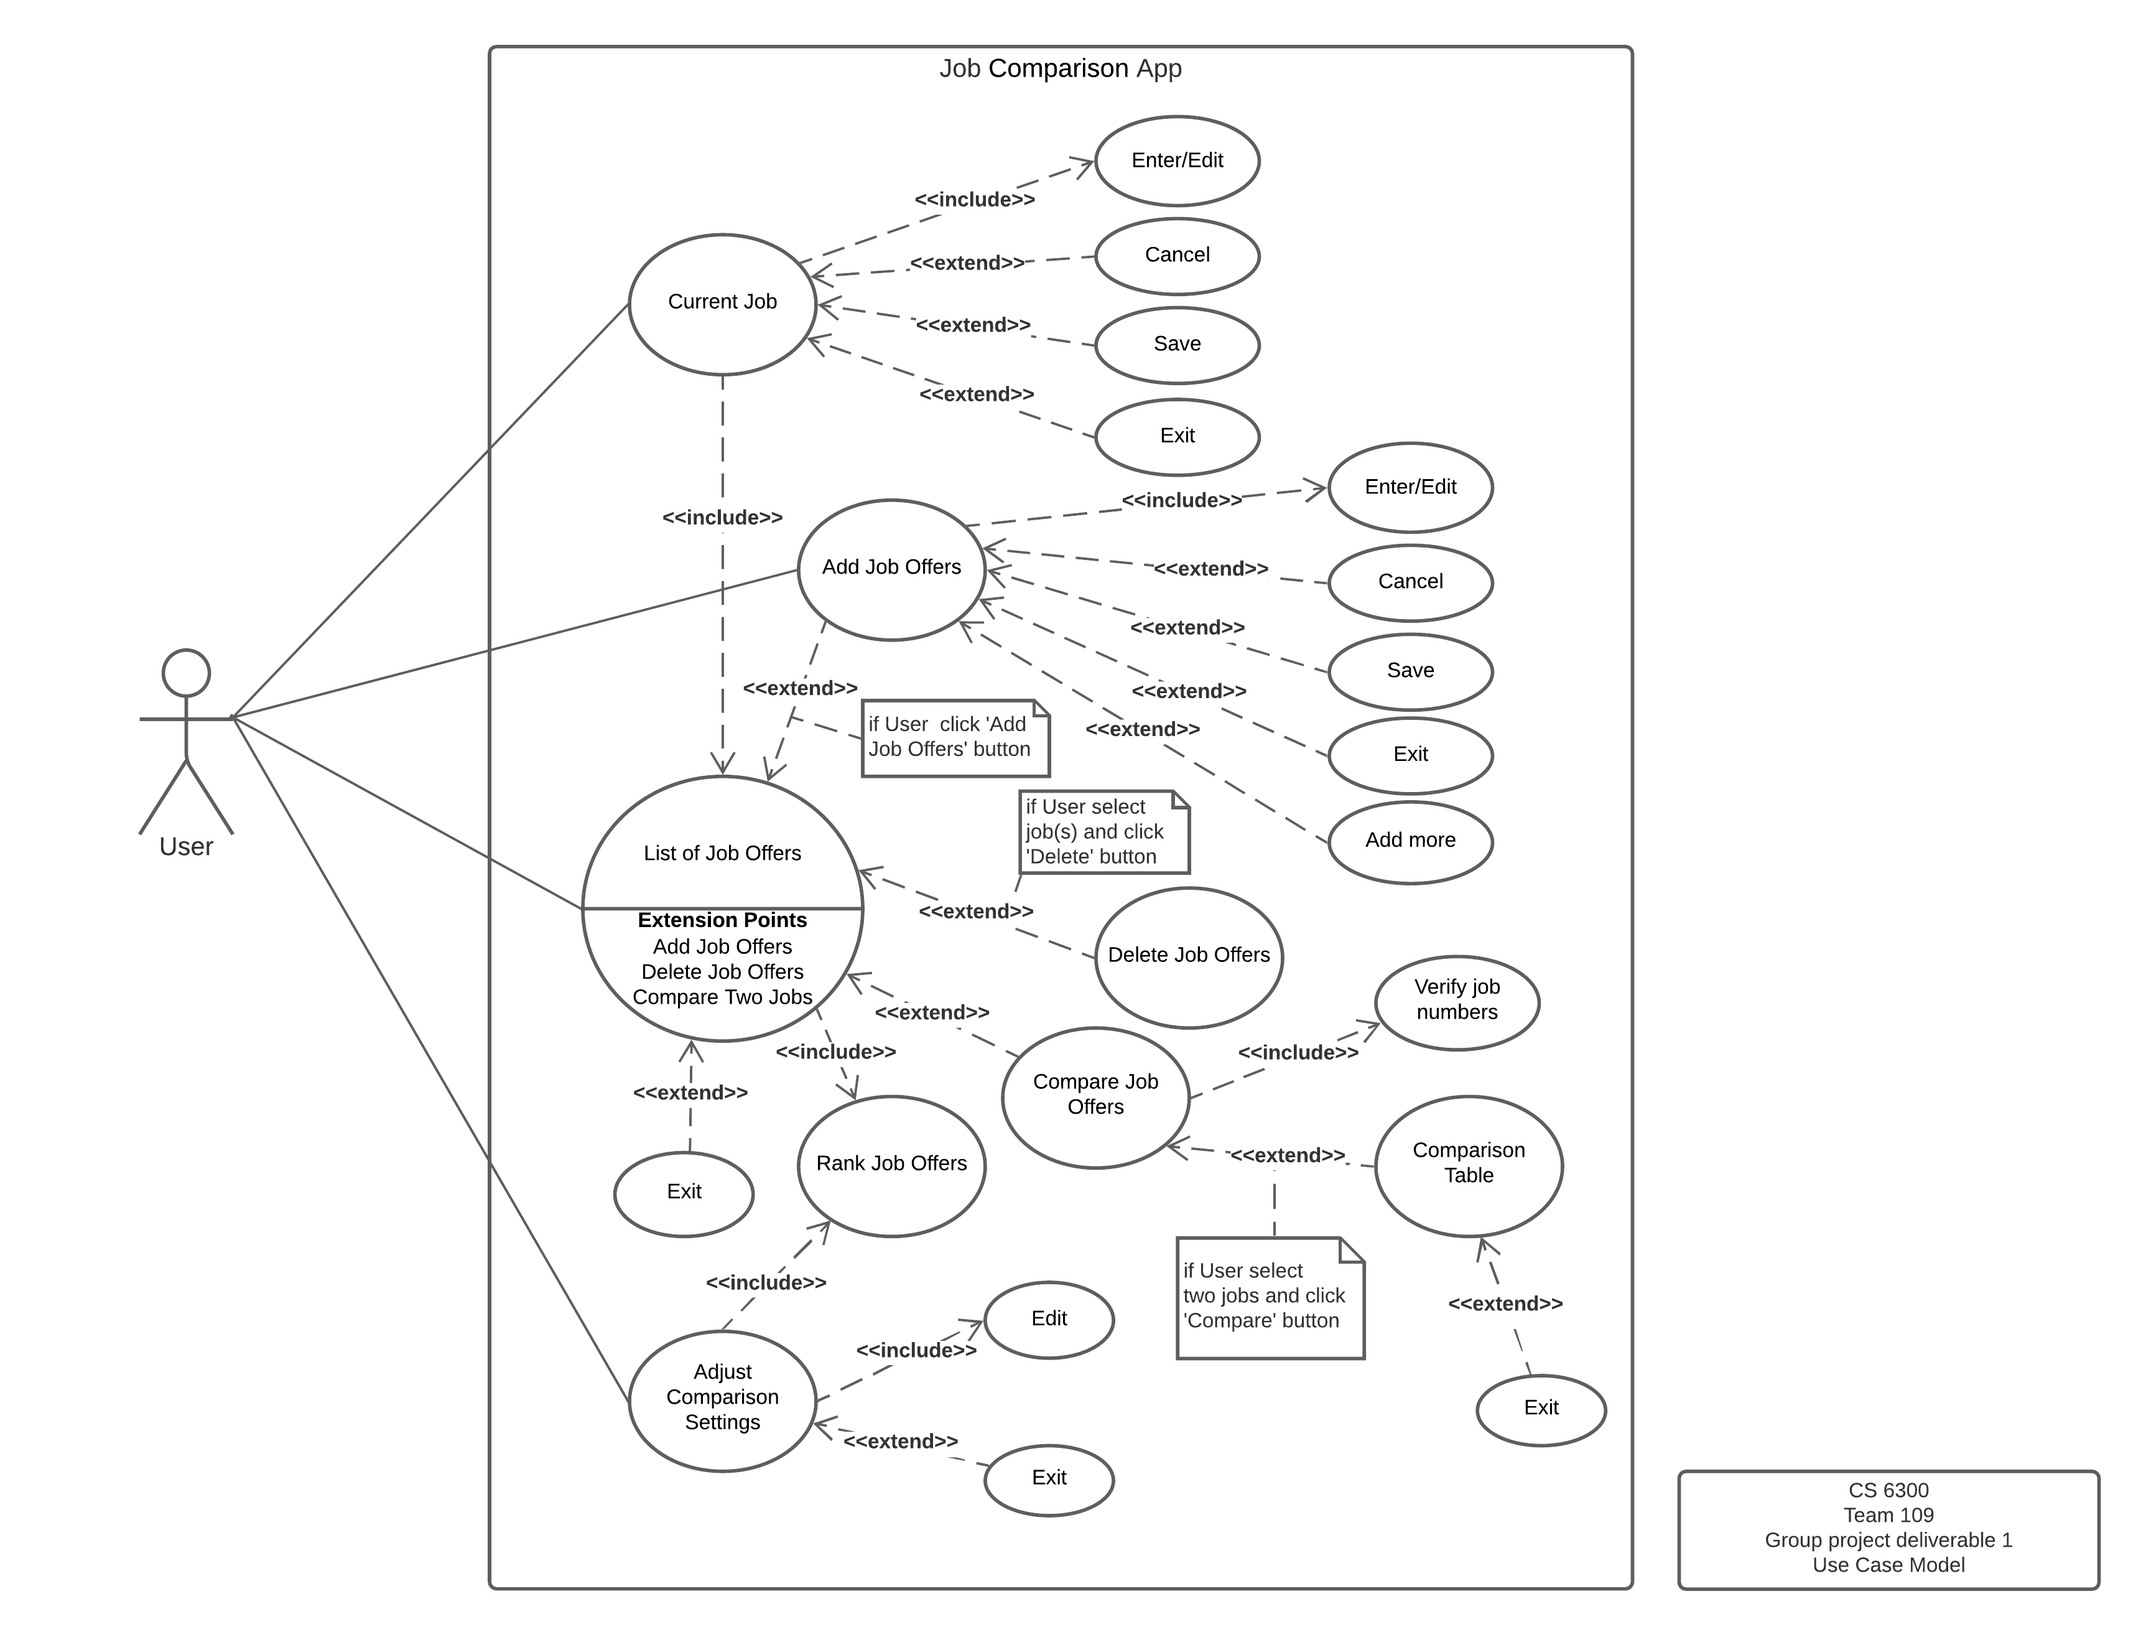
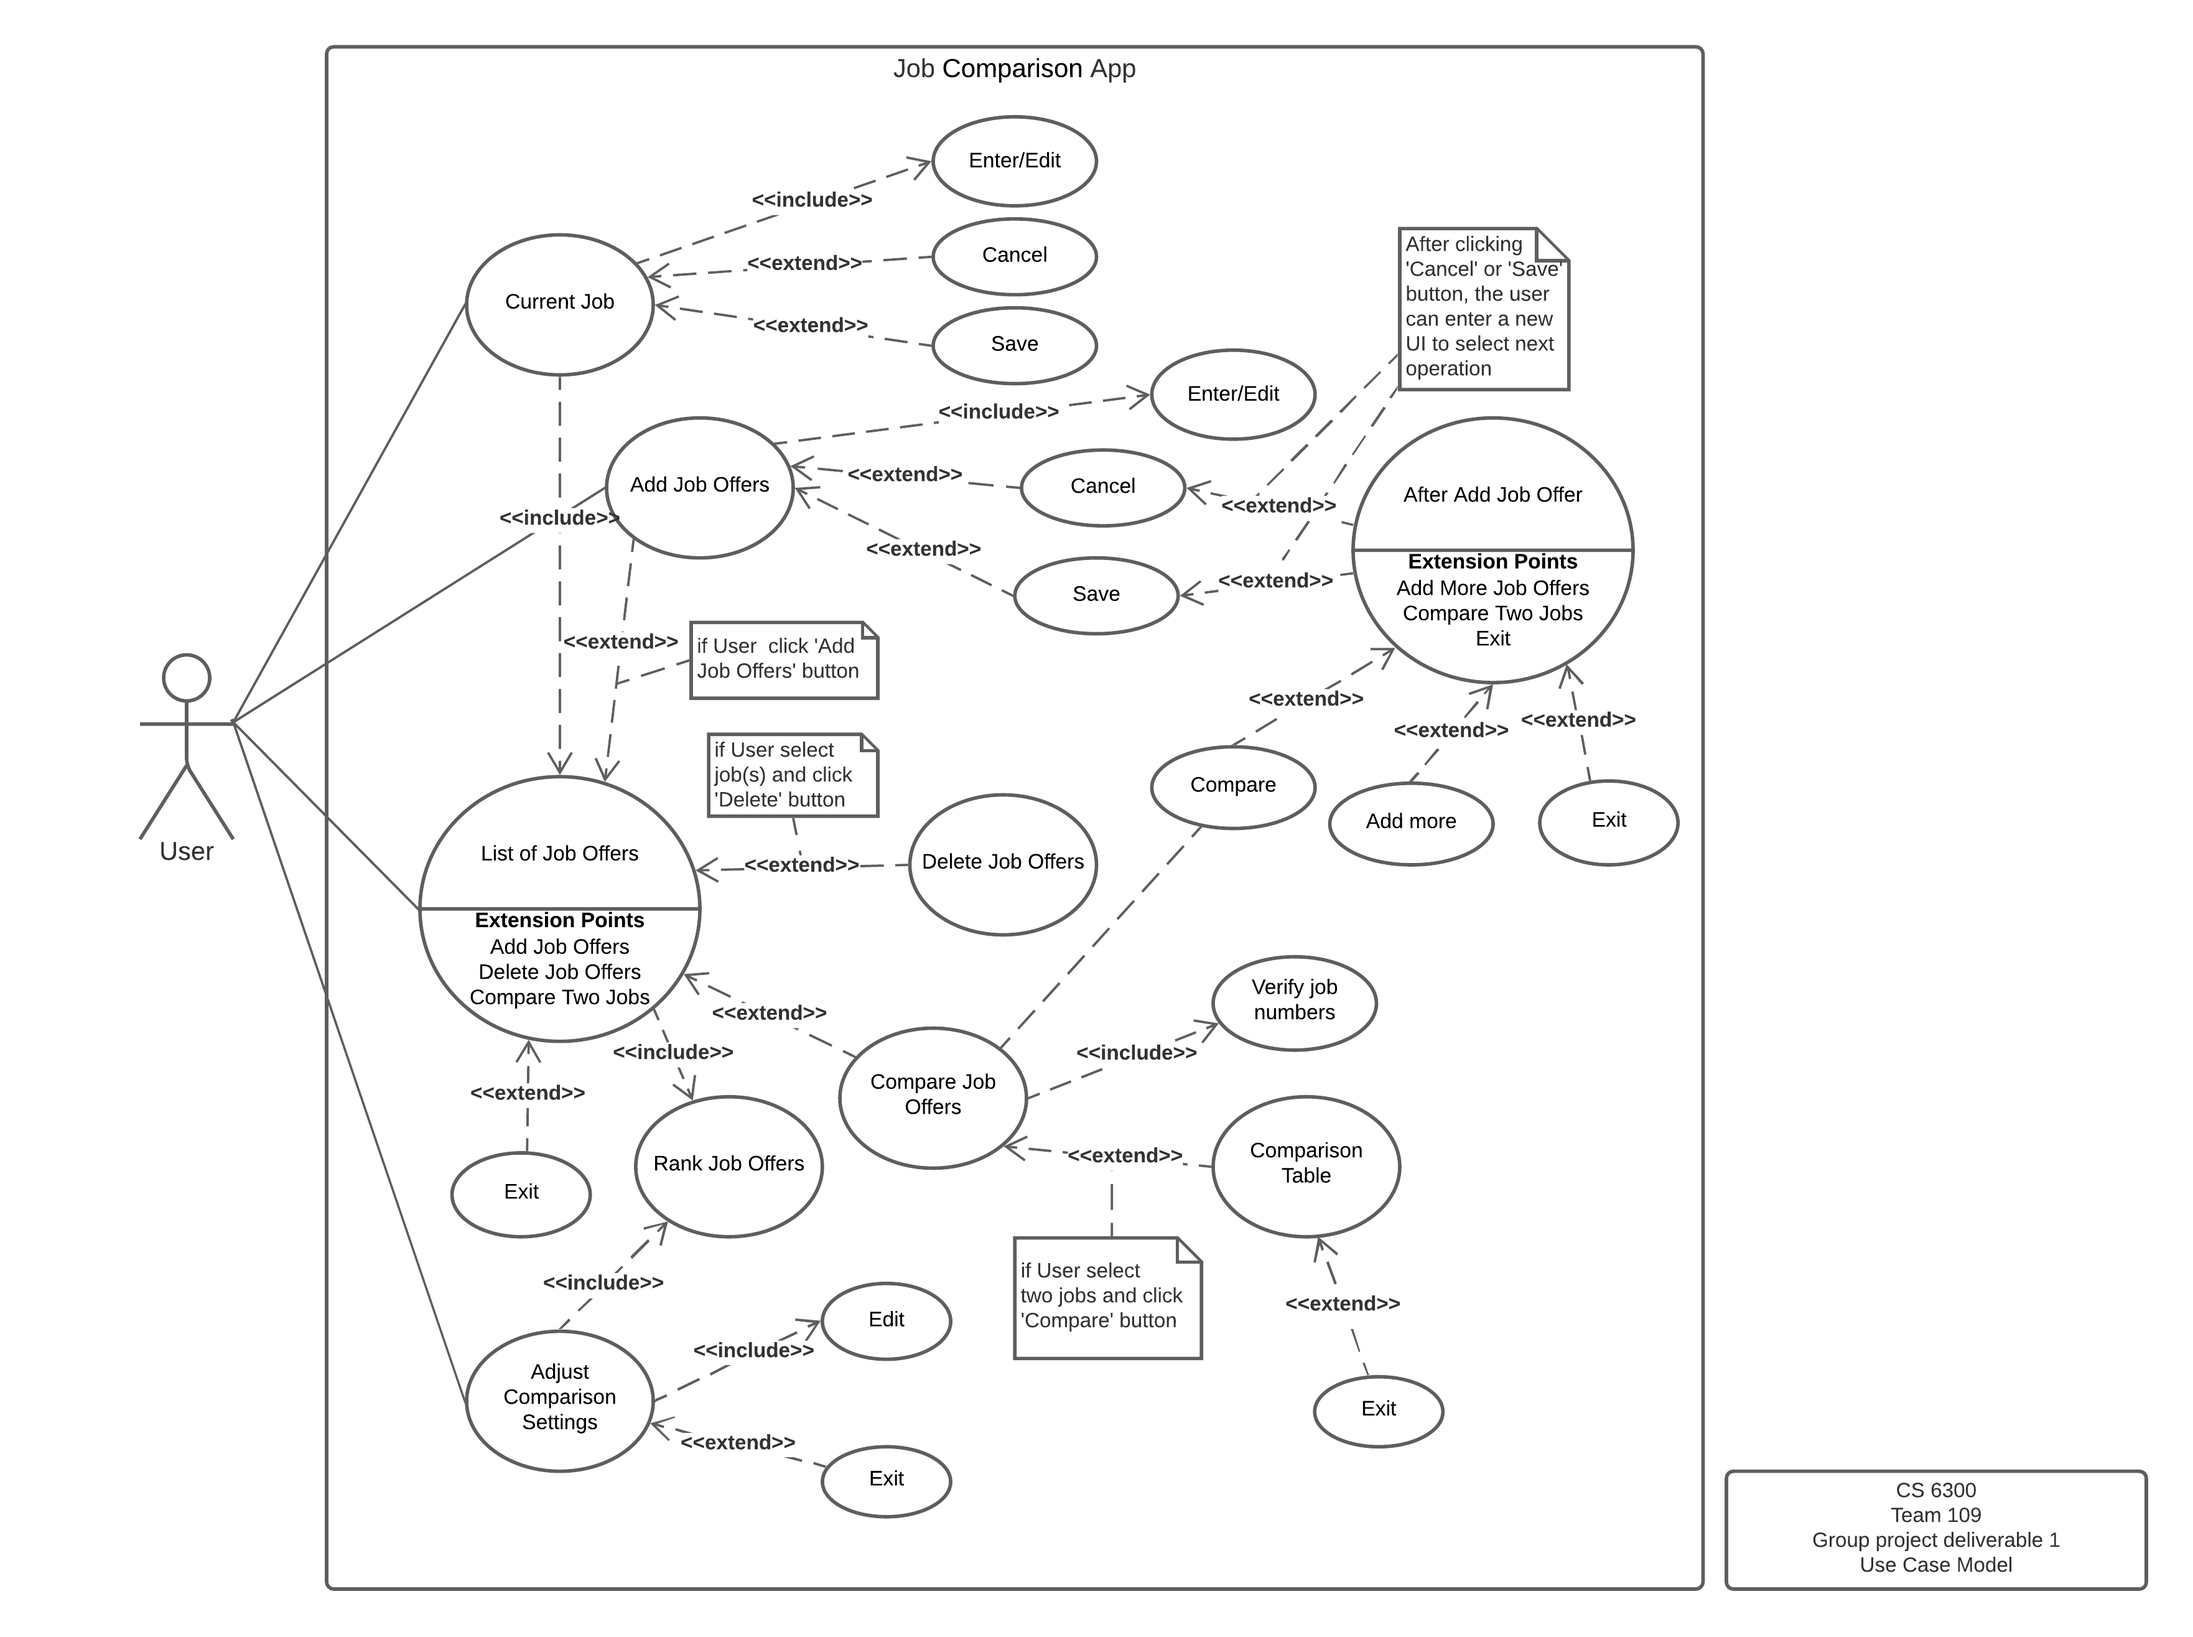
modified:   ../UseCaseModel.md 	modified:   UseCaseModel.png

diff --git a/GroupProject/Docs/UseCaseModel.md b/GroupProject/Docs/UseCaseModel.md
@@ -9,29 +9,29 @@
 ## 2 Use Case Descriptions
 
 1. Current Job
-- *Requirements: User can 'enter/edit current job', 'save current job info', 'cancel', and 'return to the main menu'.*
+- *Requirements: User can 'enter/edit current job', 'save current job details and return to the main menu', and 'cancel without saving and return to the main menu'.*
 - *Pre-conditions: Click the 'Current Job' button then enter the Current Job GUI.*  
-- *Post-conditions The user must click the 'Exit' button to return the main menu.*
+- *Post-conditions The user can either click the 'Save' button or 'Cancel' button to return the main menu.*
 - *Scenarios:* 
     1. *Once the user enters the Current Job GUI, the interface will load and show all the information of the user's current job.* 
     1. *If there is no information, the user is able to enter any missed information.* 
     1. *If the user wants to modify some current job information, the user can directly edit it.* 
-    1. *If the user wants to save the current information, the user can click the 'Save' button.*
-    1. *If the user wants to cancel current editing, the user can click the 'Cancel' button to return the status before saving.* 
-    1. *The user is able to return to the main menu by clicking the 'Exit' button.*  
+    1. *If the user wants to save the current information, the user can click the 'Save' button, and then return to the main menu*
+    1. *If the user wants to cancel current editing, the user can click the 'Cancel' button to return the main menu without saving.* 
    
-
 2. Add Job Offers
-- *Requirements: User can 'enter/edit job offers', 'save job info', 'cancel', 'add more job offers' and 'return to the previous interface'*
+- *Requirements: User can 'enter/edit job offers', 'save job offer details', 'cancel', 'add more job offers' and 'compare current job offer with current job (if present)'*
 - *Pre-conditions: Click the 'Add Job Offers' button then enter the Job Offer GUI.*
-- *Post-conditions: The user must click the 'Exit' button to return the previous interface (main menu GUI or List of Job Offers GUI).*
+- *Post-conditions: The user can either click the 'Save' button or 'Cancel' button to enter next interface for next operation.*
 - *Scenarios:*
-     1. *Once the user enters the Add Job Offers GUI, the interface will show an empty list to allow user to enter all of the details of the offer.* 
-     1. *If the user wants to save the offer information, the user can click the 'Save' button.*
+     1. *Once the user enters the Add Job Offers GUI, the interface will show an empty list to allow user to enter all of the details of the job offer.* 
+     1. *If the user wants to save the offer information, the user can click the 'Save' button to enter next interface for next operation..*
      1. *If the user did not provide all of the required infomation (for ranking), the user can't save the job offer.*
-     1. *If the user wants to cancel current editting, the user can click the 'Cancel' button to return the status before saving.* 
-     1. *The user is able to return to the previous interface by click the 'Exit' button.* 
-     1. *The user also can add another job offer by clicking the 'Add More' button.* 
+     1. *If the user wants to cancel current editting, the user can click the 'Cancel' button to enter next interface for next operation.* 
+     1. *Once the user saved or canceled the job offer editing, a new interface will pop up, asking the user what he wants to do next. The use can select to return the main menu, add more offer, and compare current offer with current job* 
+     1. *If the user select 'add more' button, the interface will show an empty list to allow user to enter all of the details of the job offer as step 1*
+     1. *If the user select 'compare' button, a comparison between current job offer and current job will be shown in a table.*
+     1. *The user is able to return to the main menu by clicking the 'Exit' button.* 
      
 
 3. List of Job Offers 
